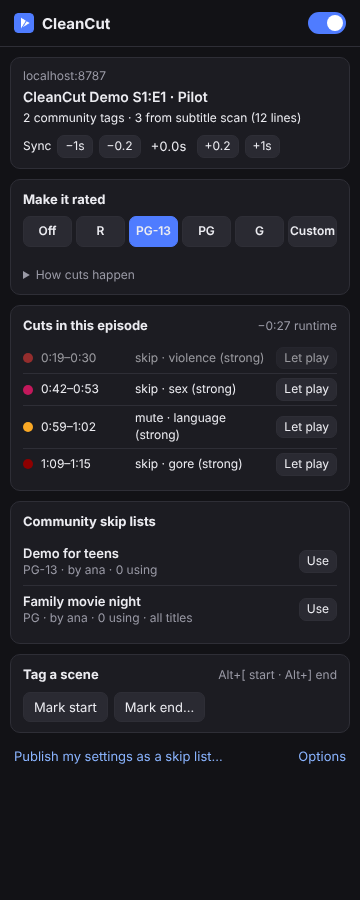
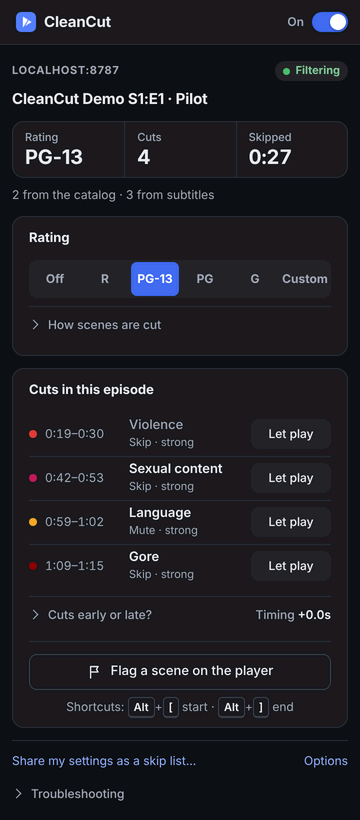
Screenshots of every popup state and the options page
test/e2e/ui-screenshots.mjs loads the built extension in Chromium and
captures each popup state in light and dark into docs/ui: real states
from the demo page, the rest (Netflix, offline, unsynced, aligned,
skip lists, flag error…) by answering getState with a fixture. It also
reports horizontal overflow and page errors.

  npm run build && node test/e2e/ui-screenshots.mjs [outDir]

The README's popup image is refreshed from the new design.

Claude-Session: https://claude.ai/code/session_01DSpuPcHChjV2yHUFtbw8WH

diff --git a/README.md b/README.md
@@ -16,7 +16,7 @@ It has three parts:
 
 <p>
   <img src="docs/overlay.png" alt="Demo player: a toast reads 'Skipped 0:10 · violence (strong)' with an Undo button, and a coloured strip of cuts runs along the bottom" width="62%">
-  <img src="docs/popup.png" alt="Extension popup: rating buttons Off/R/PG-13/PG/G/Custom, the list of cuts in this episode, community skip lists, and tagging buttons" width="30%">
+  <img src="docs/popup.png" alt="Extension popup: what is playing with its rating, cut count and time skipped, the rating buttons Off/R/PG-13/PG/G/Custom, the list of cuts in this episode, and a button to flag a scene on the player" width="30%">
 </p>
 
 They share one core ([`shared/`](shared)): the content taxonomy, the rating
